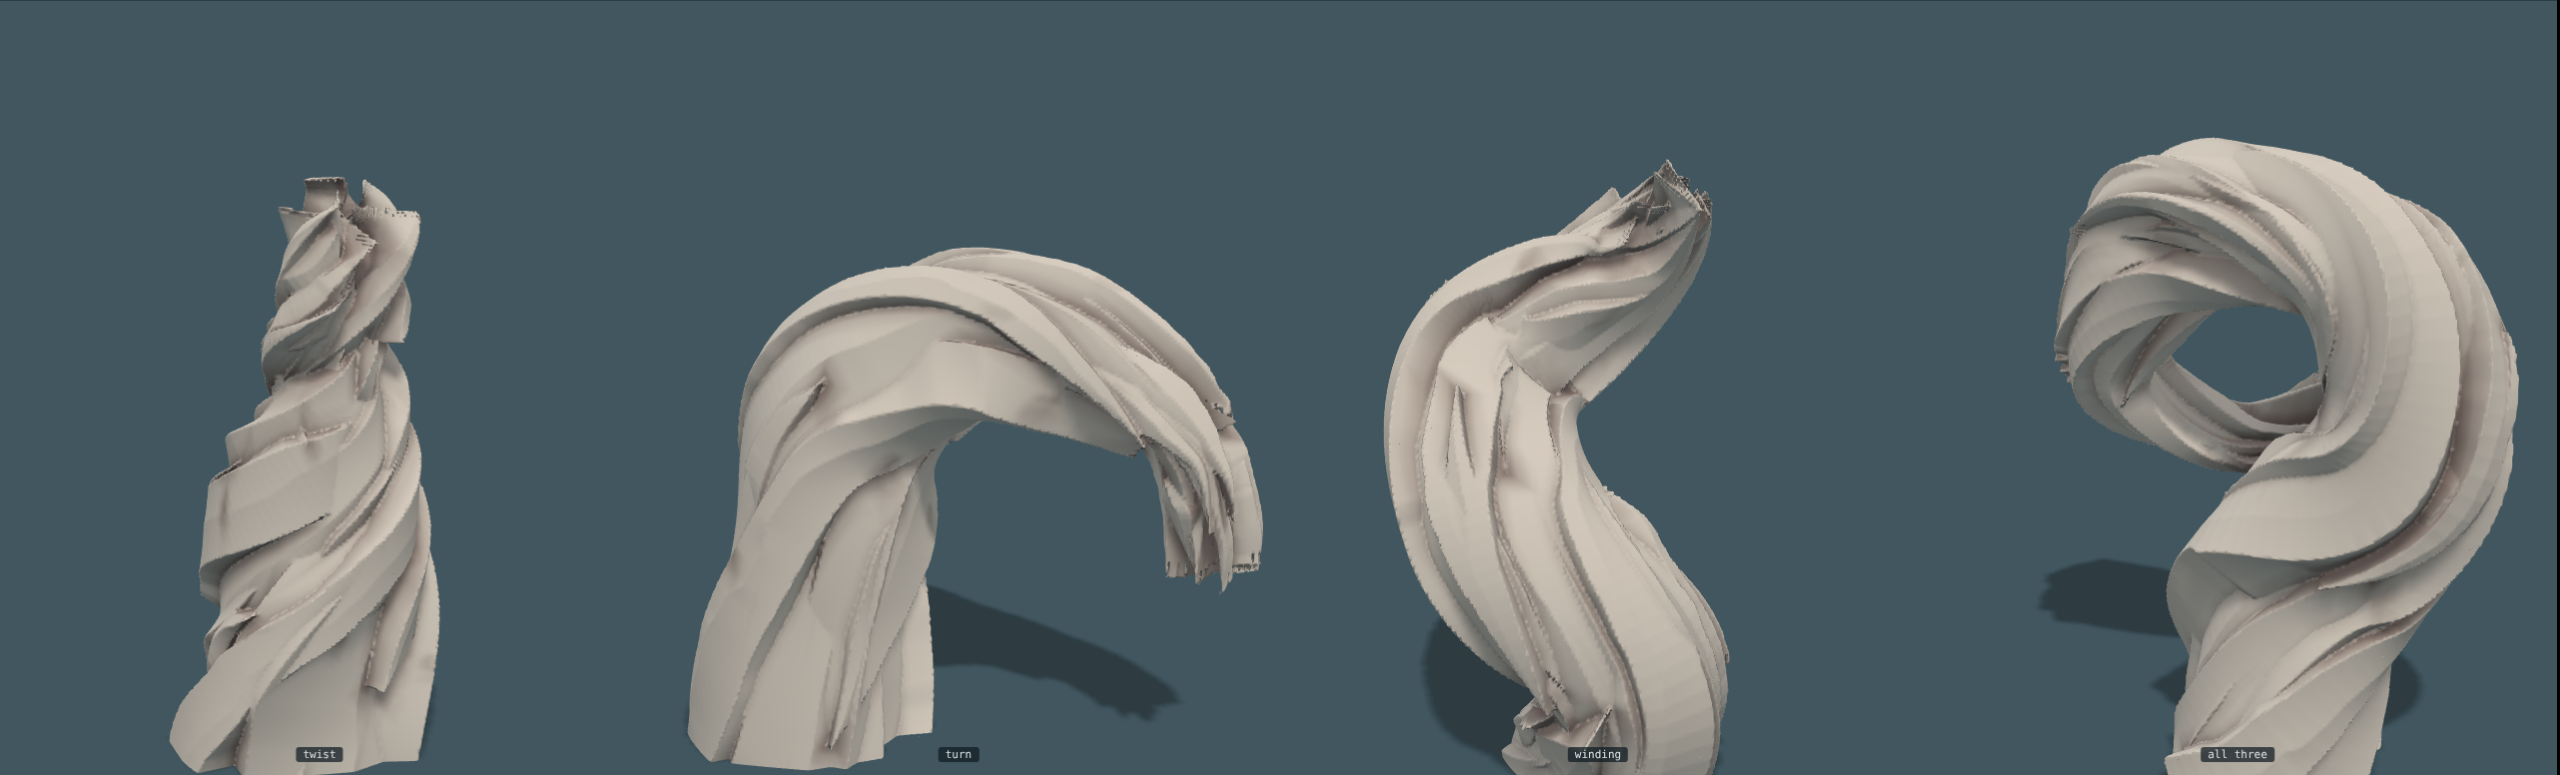
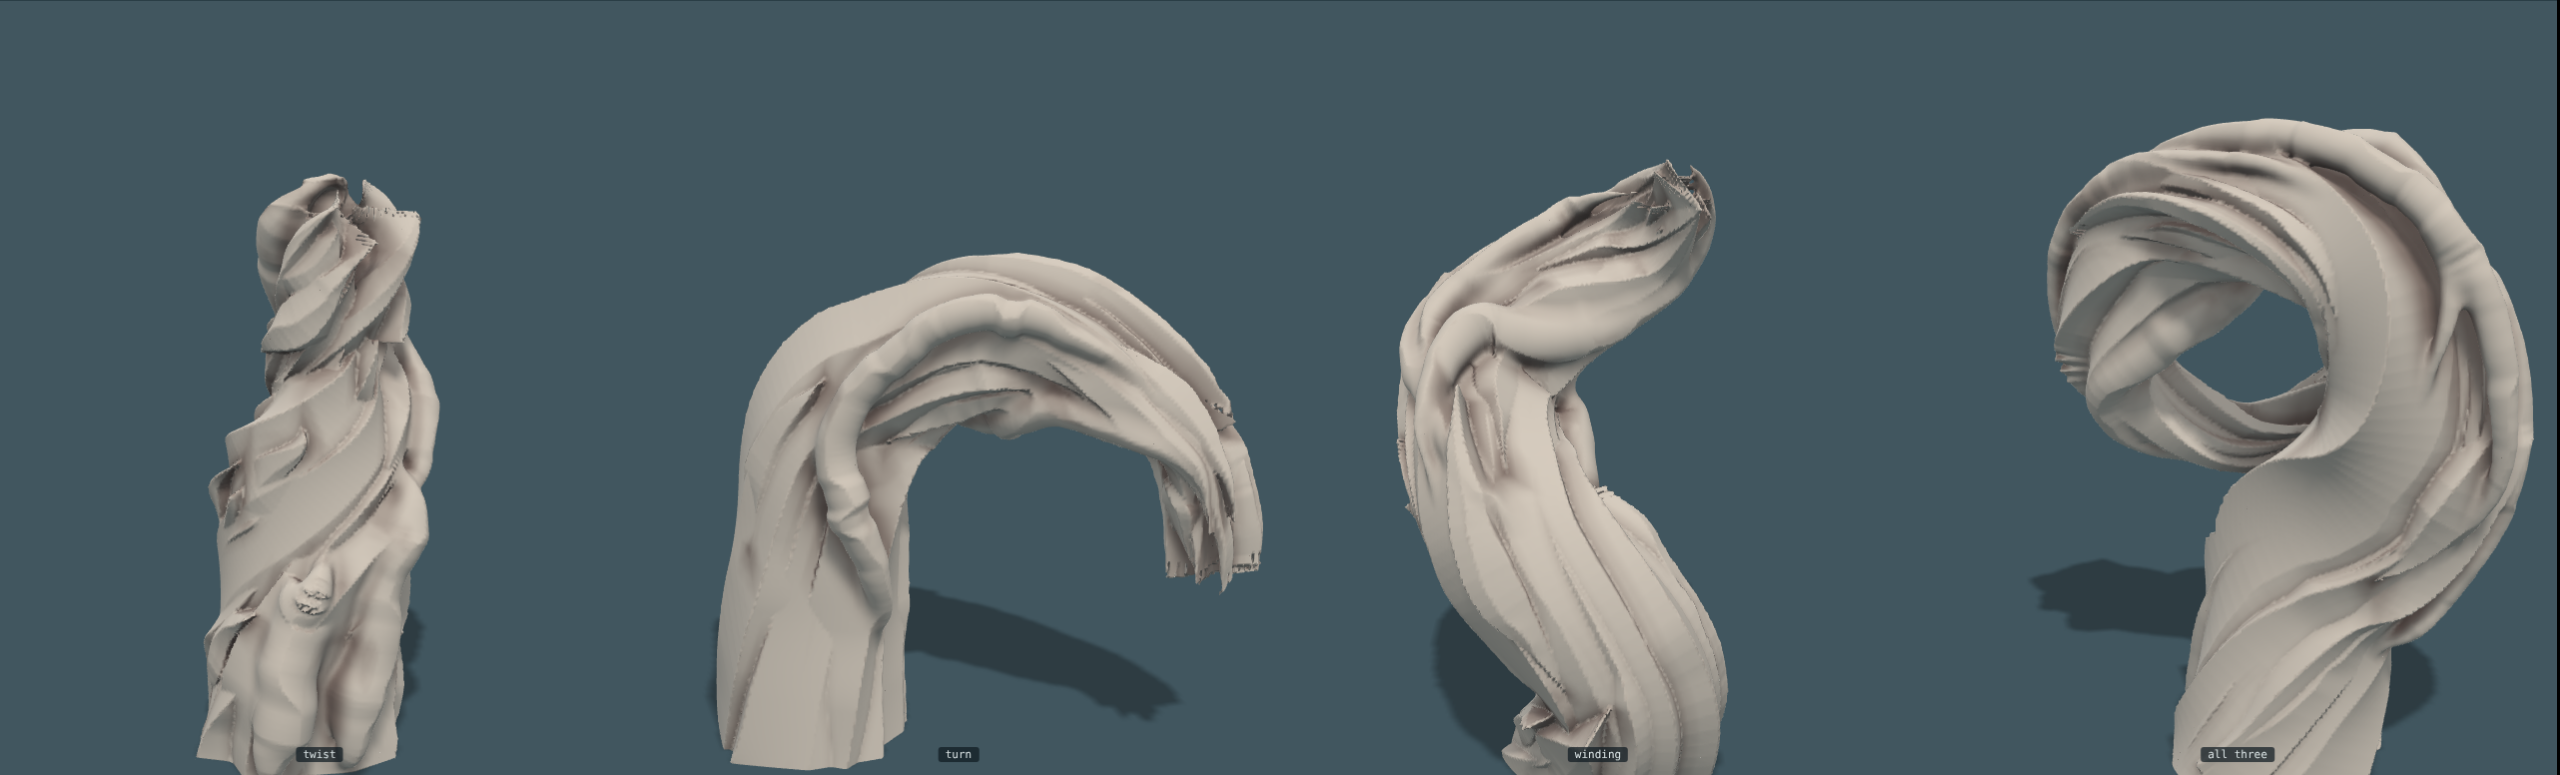
Sketchbook page 5: exact outer layer withdrawn, replaced by cables thrown across
Claude-Session: https://claude.ai/code/session_0192rgp75jGkttZXf7hEakip

diff --git a/sketch/page5.js b/sketch/page5.js
@@ -4,11 +4,12 @@
 // it follows, so on the outside of a bend or a twist its far end stands off. Between its ends a shard has a
 // little give: it draws in or spreads, drifts and sinks. And its ridge and edges do not run true: they hold,
 // lean, and jog to one side, at uneven intervals.
-// Over the inner wood lies an outer layer: a few broad thin bands of the same stuff, with gaps between.
+// Across all that run a few cables: thick round strands, partly sunk in the wood and partly standing off it,
+// each going its own way. Not a layer and not fitted.
 // The same four test pieces: a twist, a turn, a winding, and all three.
 // Throwaway like the other pages. Built with the clay kit from cheats/fantastic.js.
 (function () {
-  const { PI, TAU, H, clamp, sstep } = Fantastic.kit;
+  const { PI, TAU, H, clamp, sstep, smin } = Fantastic.kit;
   const dot = (a, b) => a[0] * b[0] + a[1] * b[1] + a[2] * b[2], cross = (a, b) => [a[1] * b[2] - a[2] * b[1], a[2] * b[0] - a[0] * b[2], a[0] * b[1] - a[1] * b[0]];
   const unit = (a) => { const l = H(a[0], a[1], a[2]) || 1; return [a[0] / l, a[1] / l, a[2] / l]; }, lerp = (a, b, t) => a + (b - a) * t, mix = (a, b, t) => [lerp(a[0], b[0], t), lerp(a[1], b[1], t), lerp(a[2], b[2], t)];
   function rng(seed) { let a = (seed * 2654435761) >>> 0; return () => { a = (a + 0x6d2b79f5) | 0; let t = Math.imul(a ^ (a >>> 15), 1 | a); t = (t + Math.imul(t ^ (t >>> 7), 61 | t)) ^ t; return ((t ^ (t >>> 14)) >>> 0) / 4294967296; }; }
@@ -48,11 +49,13 @@
       bi = clamp(Math.floor(at), 0, n - 2); bt = at - bi;
       const side = unit(cross(T, mix(K.O[bi], K.O[bi + 1], bt))), o = cross(side, T), d3 = [x - c[0], y - c[1], z - c[2]];
       const along = dot(d3, T), pre = at <= 0 || at >= n - 1 ? along : 0, v = dot(d3, o), w = lerp(K.W[bi], K.W[bi + 1], bt), h = lerp(K.Hh[bi], K.Hh[bi + 1], bt), s = lerp(L[bi], L[bi + 1], bt) + pre, u = dot(d3, side) - jog(s) * 0.16 * K.wiggle * w;
+      // a cable is round, not flat-faced: the shape two overlapping circles share, which leaves a spine along its top
+      if (K.round) { const e = 0.35 * w, a = rjog(s) * 0.2 * K.wiggle; return Math.max(H(u - e, v) - 1.35 * w * (1 + a), H(u + e, v) - 1.35 * w * (1 - a), -s, s - L[n - 1], pre ? -1 : Math.abs(along) - 0.03); }
       const xm = clamp(K.ridge + rjog(s) * 0.3 * K.wiggle, -0.85, 0.85) * w, yl = h * K.eL, yr = h * K.eR, lx = -(h - yl), ly = xm + w, rx = h - yr, ry = w - xm;
       // inside all of: the two faces of the roof, the two side walls, a floor well below, and the two ends
       return Math.max(((u + w) * lx + (v - yl) * ly) / H(lx, ly), ((u - xm) * rx + (v - h) * ry) / H(rx, ry), -u - w, u - w, -v - K.deep, -s, s - L[n - 1] + K.skew * u, pre ? -1 : Math.abs(along) - 0.03);   // and never out past a fold in its own line
     };
-    return { f, C: K.C, reach: K.C.map((c, i) => K.W[i] + K.Hh[i] + K.deep) };
+    return { f, C: K.C, soft: !!K.round, reach: K.C.map((c, i) => K.W[i] + K.Hh[i] + K.deep) };
   }
   // wood round a guide line that carries a girth. Two layers of shards on a hidden core: wide ones that give
   // the piece its bulk, and narrower, shorter ones lying on them.
@@ -69,8 +72,8 @@
       const bow = (q) => Math.sin(PI * waves * Math.pow(q, skew)) * Math.sin(PI * q) ** 0.5;
       for (let i = i0; i <= i1; i += 2) {
         const [Tn, Nn, Bn] = frames[i], R = G[i][3], q = (i - i0) / n, th = th0 + TAU * turns * Math.pow(i / M, o.ramp || 1), out = [0, 1, 2].map((k) => Nn[k] * Math.cos(th) + Bn[k] * Math.sin(th));
-        const b = bow(q), on = [0, 1, 2].map((k) => G[i][k] + out[k] * R * (rho + lift * q * q) + (Bn[k] * Math.cos(th) - Nn[k] * Math.sin(th)) * R * wide * drift * b);
-        if (!straight) { straight = on; T0 = unit([0, 1, 2].map((k) => Tn[k] + (Bn[k] * Math.cos(th) - Nn[k] * Math.sin(th)) * TAU * turns * rho * R * 0.5)); } else run += H(G[i][0] - G[i - 2][0], G[i][1] - G[i - 2][1], G[i][2] - G[i - 2][2]);
+        const b = bow(q), rh = typeof rho === 'function' ? rho(q) : rho, on = [0, 1, 2].map((k) => G[i][k] + out[k] * R * (rh + lift * q * q) + (Bn[k] * Math.cos(th) - Nn[k] * Math.sin(th)) * R * wide * drift * b);
+        if (!straight) { straight = on; T0 = unit([0, 1, 2].map((k) => Tn[k] + (Bn[k] * Math.cos(th) - Nn[k] * Math.sin(th)) * TAU * turns * rh * R * 0.5)); } else run += H(G[i][0] - G[i - 2][0], G[i][1] - G[i - 2][1], G[i][2] - G[i - 2][2]);
         // too stiff for its line: part way between following it and running straight on from where it began
         // and never more than about half a girth off it
         const off = [0, 1, 2].map((k) => straight[k] + T0[k] * run - on[k]), far = H(off[0], off[1], off[2]) || 1e-9, stay = Math.min(stiff * q * q, 0.55 * R / far), p = [0, 1, 2].map((k) => on[k] + off[k] * stay);
@@ -85,18 +88,24 @@
     // the narrow ones: anywhere, any length, their far ends lifting
     for (let j = 0; j < (o.narrow || 14); j++) { const i0 = Math.round(M * 0.86 * r()), len = Math.round(M * (0.12 + 0.3 * r()));
       lay(i0, Math.min(M, i0 + len), TAU * r(), 0.7 + 0.1 * r(), 0.2 + 0.2 * r(), 0.14 + 0.14 * r(), o.lift * (0.4 + r()), 0.6, o.stiff, { ridge: 0.8 * (r() - 0.5), eL: 0.1 + 0.6 * r(), eR: 0.1 + 0.6 * r(), skew: 2 * (r() - 0.5) }); }
-    // the outer layer: a few broad, thin bands of the same wood lying over all of that. They do not close round
-    // it: the inner wood shows in the gaps between them, at the foot where a band starts above the ground, and
-    // past where each one ends. They go round a little more than the inner wood does, so the two grains cross.
-    turns = o.turns + (o.cross === undefined ? 0.3 : o.cross); const nO = o.outer === undefined ? 4 : o.outer;
-    for (let j = 0; j < nO; j++) { const i0 = j % 2 ? Math.round(M * (0.05 + 0.2 * r3())) : 0, i1 = Math.round(M * (0.6 + 0.4 * r3()));
-      lay(i0, i1, o.phase + 0.5 + TAU * (j + 0.35 * (r3() - 0.5)) / nO, 0.97, 0.42 * (0.75 + 0.5 * r3()), 0.1 + 0.06 * r3(), 0, 0.25, o.stiff * 0.3, { ridge: 0.6 * (r3() - 0.5), eL: 0.45 + 0.4 * r3(), eR: 0.45 + 0.4 * r3(), skew: 1.5 * (r3() - 0.5) }); }
+    // cables: a few thick round strands thrown across all of that. Each runs only part of the way and goes
+    // round at its own rate, with or against the grain, so it crosses what is under it and crosses other
+    // cables. None is fitted: its depth wanders between half buried in the wood and barely touching it, and
+    // it dives in at both ends.
+    const nC = o.cables === undefined ? 5 : o.cables;
+    for (let j = 0; j < nC; j++) {
+      const i0 = Math.round(M * 0.55 * r3()), i1 = Math.min(M, i0 + Math.round(M * (0.35 + 0.4 * r3()))), depth = wander(1, r3, 0.1), base = 1.0 + 0.12 * r3();
+      turns = o.turns + (r3() < 0.5 ? -1 : 1) * (0.5 + 0.9 * r3());
+      lay(i0, i1, TAU * r3(), (q) => base + 0.2 * depth(q) - 0.5 * (1 - Math.min(1, q / 0.12, (1 - q) / 0.12)), 0.22 + 0.12 * r3(), 0.2, 0, 0.22, o.stiff * 0.6, { round: true });
+    }
+    turns = o.turns;
     // which shards are near which place, so that only those are asked
     const cell = 0.12, grid = new Map(), key = (x, y, z) => (x + 64) * 16384 + (y + 64) * 128 + z + 64;
     // a shard is entered only in the cells along its own line, not in every cell of the box round it
     all.forEach((s, i) => { const seen = new Set(); s.C.forEach((c, j) => { const m = s.reach[j] + 0.1;
       for (let x = Math.floor((c[0] - m) / cell); x <= Math.floor((c[0] + m) / cell); x++) for (let y = Math.floor((c[1] - m) / cell); y <= Math.floor((c[1] + m) / cell); y++) for (let z = Math.floor((c[2] - m) / cell); z <= Math.floor((c[2] + m) / cell); z++) { const k = key(x, y, z); if (seen.has(k)) continue; seen.add(k); const b = grid.get(k); if (b) b.push(i); else grid.set(k, [i]); } }); });
-    return (x, y, z) => { const b = grid.get(key(Math.floor(x / cell), Math.floor(y / cell), Math.floor(z / cell))); if (!b) return 0.1; let d = 0.1; for (const i of b) d = Math.min(d, all[i].f(x, y, z)); return d; };   // joined hard: no blending anywhere
+    // shards are joined hard, with no blending. Cables alone are let sink into what they lie on.
+    return (x, y, z) => { const b = grid.get(key(Math.floor(x / cell), Math.floor(y / cell), Math.floor(z / cell))); if (!b) return 0.1; let d = 0.1; for (const i of b) if (!all[i].soft) d = Math.min(d, all[i].f(x, y, z)); for (const i of b) if (all[i].soft) d = smin(d, all[i].f(x, y, z), 0.03); return d; };
   }
   const S = [
     ['twist', wood([[-0.1, -0.06, 0, 0.32], [-0.03, 0.5, 0, 0.29], [0.03, 1.05, 0, 0.24], [0.1, 1.62, 0, 0.15]], { seed: 1, turns: 1.3, ramp: 2, phase: 0.5, stiff: 0.5, lift: 0.25 })],

diff --git a/LOG.md b/LOG.md
@@ -808,3 +808,28 @@ thin, nearly featureless on their faces, and lie too obediently. One band
 on the twist ends in a blunt corner.
 
 Slower: each piece now takes 20 to 35 seconds to mesh.
+
+**Outer layer withdrawn.** "It's an exact layer. That's not what I meant, I
+meant partial, patches, strands running across." Given with a picture, and:
+"cables that are immersed in the core wood but also crudely applied. It's
+not a perfect fit, it's nature." Kept as
+`sketch/page5-exact-layer-withdrawn.png`.
+
+Replaced by cables: five thick round strands thrown across the shards. Each
+runs 35 to 75% of a piece and goes round at its own rate, with or against
+the grain (half a turn to a turn and a half more or less than the wood over
+a whole piece), so it crosses what is under it. Its section is the shape
+two overlapping circles share, which leaves a spine along the top. None is
+fitted: its depth wanders between half buried and barely touching, and it
+dives into the wood at both ends. Cables are the one thing allowed to blend
+into what they lie on; shards are still joined hard.
+`sketch/page5.png`, `sketch/page5-close.png`.
+
+First try was timid: thin and nearly all buried, they read as veins under a
+skin. Second: thicker (about a quarter to a third of the girth) and centred
+at the surface instead of under it.
+
+Not there: the cables are smooth all over, and next to the shards that
+reads as a softer stuff laid on, close to what was called squeezed before;
+the spine hardly shows; no place yet where one cable visibly crosses
+another; a ragged pit at the foot of the twist where a cable dives in.
